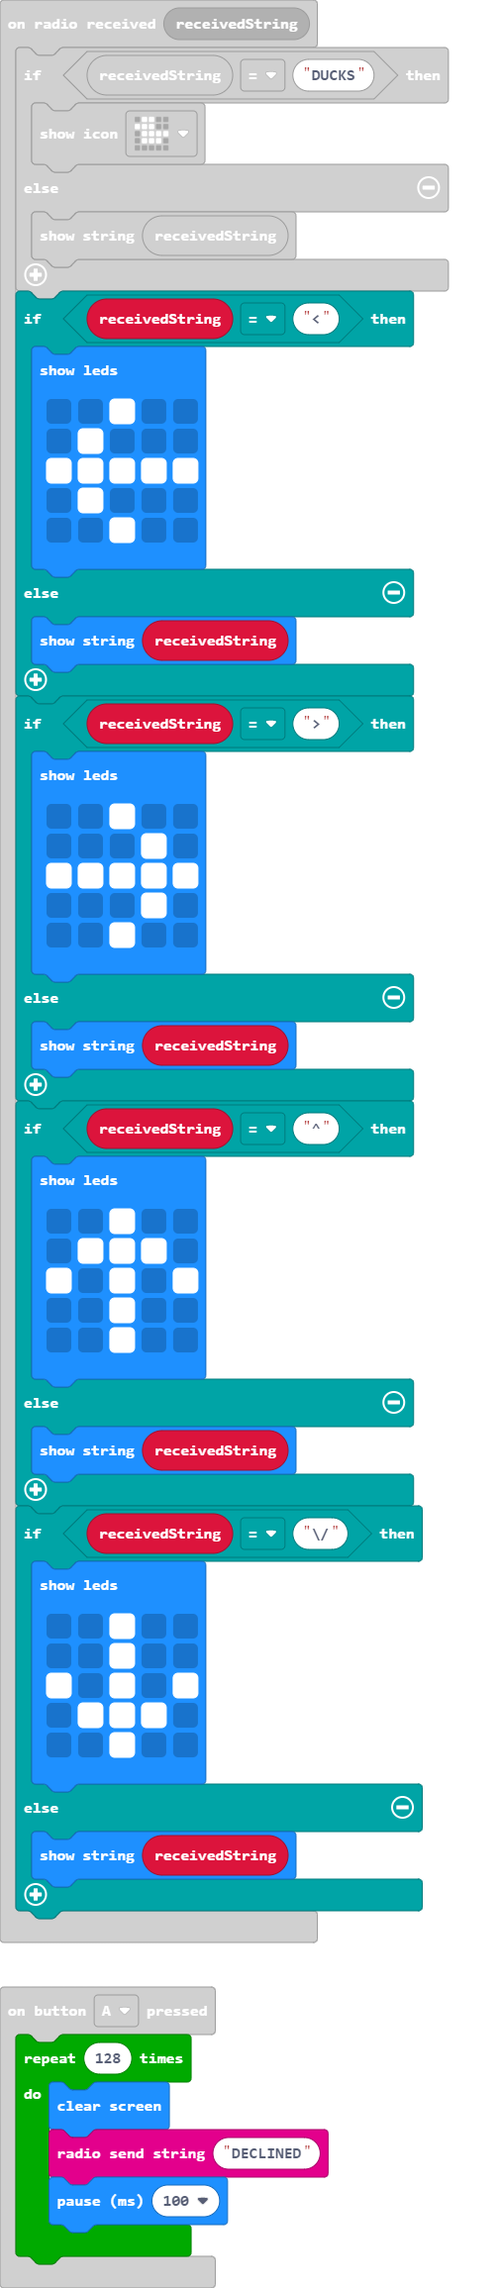
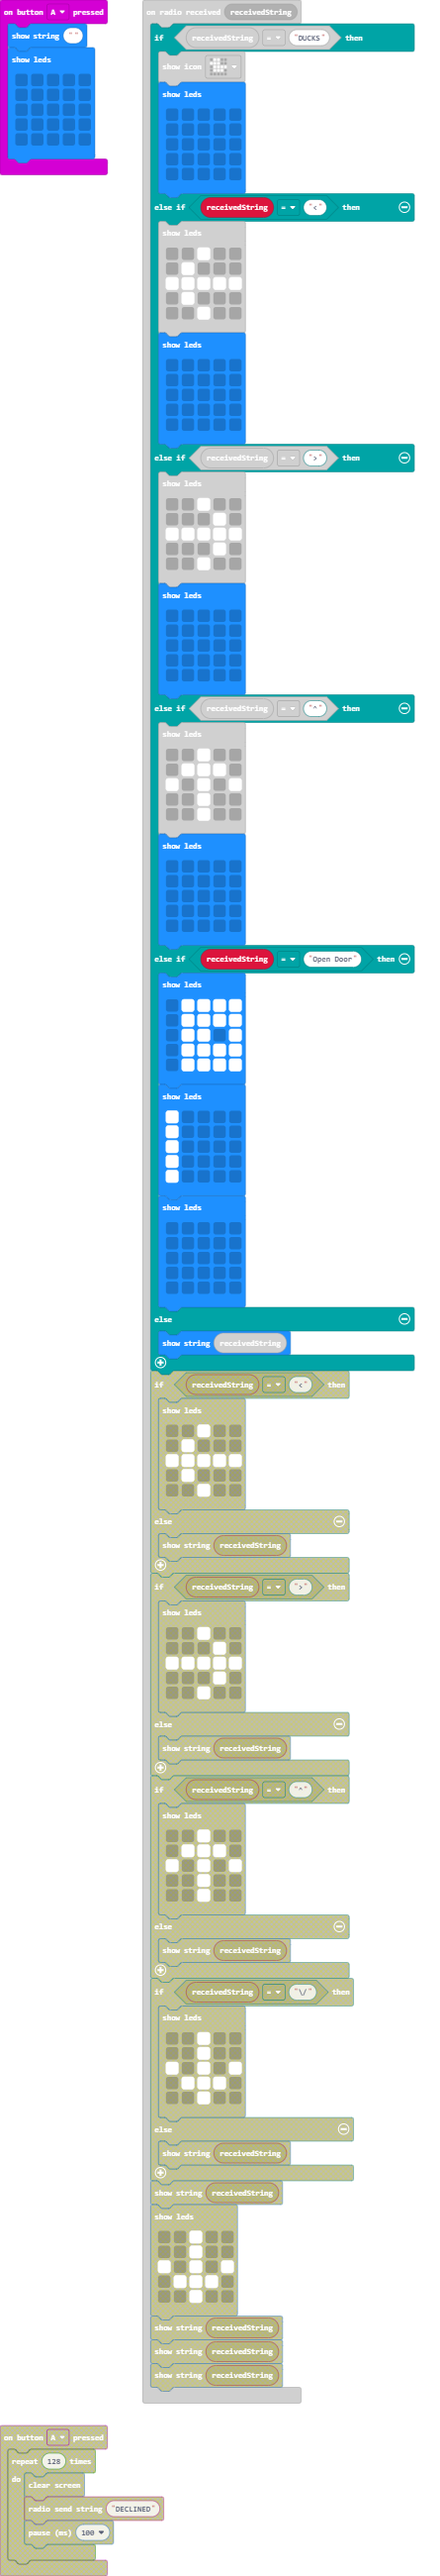
automatic turn offer

diff --git a/main.ts b/main.ts
@@ -1,17 +1,24 @@
 input.onButtonPressed(Button.A, function () {
-    for (let index = 0; index < 128; index++) {
-        basic.clearScreen()
-        radio.sendString("DECLINED")
-        basic.pause(100)
-    }
+    basic.showString("")
+    basic.showLeds(`
+        . . . . .
+        . . . . .
+        . . . . .
+        . . . . .
+        . . . . .
+        `)
 })
 radio.onReceivedString(function (receivedString) {
     if (receivedString == "DUCKS") {
         basic.showIcon(IconNames.Duck)
-    } else {
-        basic.showString(receivedString)
-    }
-    if (receivedString == "<") {
+        basic.showLeds(`
+            . . . . .
+            . . . . .
+            . . . . .
+            . . . . .
+            . . . . .
+            `)
+    } else if (receivedString == "<") {
         basic.showLeds(`
             . . # . .
             . # . . .
@@ -19,10 +26,14 @@ radio.onReceivedString(function (receivedString) {
             . # . . .
             . . # . .
             `)
-    } else {
-        basic.showString(receivedString)
-    }
-    if (receivedString == ">") {
+        basic.showLeds(`
+            . . . . .
+            . . . . .
+            . . . . .
+            . . . . .
+            . . . . .
+            `)
+    } else if (receivedString == ">") {
         basic.showLeds(`
             . . # . .
             . . . # .
@@ -30,10 +41,14 @@ radio.onReceivedString(function (receivedString) {
             . . . # .
             . . # . .
             `)
-    } else {
-        basic.showString(receivedString)
-    }
-    if (receivedString == "^") {
+        basic.showLeds(`
+            . . . . .
+            . . . . .
+            . . . . .
+            . . . . .
+            . . . . .
+            `)
+    } else if (receivedString == "^") {
         basic.showLeds(`
             . . # . .
             . # # # .
@@ -41,16 +56,34 @@ radio.onReceivedString(function (receivedString) {
             . . # . .
             . . # . .
             `)
-    } else {
-        basic.showString(receivedString)
-    }
-    if (receivedString == "\\/") {
         basic.showLeds(`
-            . . # . .
-            . . # . .
-            # . # . #
-            . # # # .
-            . . # . .
+            . . . . .
+            . . . . .
+            . . . . .
+            . . . . .
+            . . . . .
+            `)
+    } else if (receivedString == "Open Door") {
+        basic.showLeds(`
+            . # # # #
+            . # # # #
+            . # # . #
+            . # # # #
+            . # # # #
+            `)
+        basic.showLeds(`
+            # . . . .
+            # . . . .
+            # . . . .
+            # . . . .
+            # . . . .
+            `)
+        basic.showLeds(`
+            . . . . .
+            . . . . .
+            . . . . .
+            . . . . .
+            . . . . .
             `)
     } else {
         basic.showString(receivedString)
